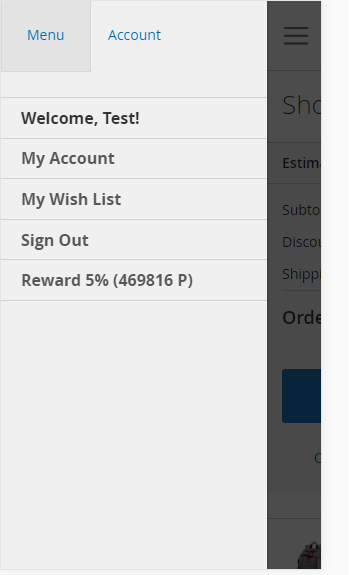
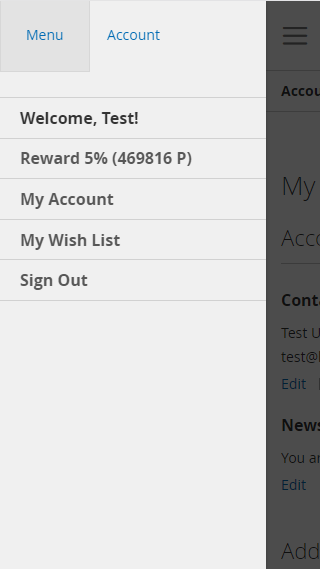
Changed: Update Readme to include screenshot Changed: point-reward-link in top.links moved to header.links Fixed: Remove duplicated wishlist script

Changed region(s): [[0.0, 0.0, 1.0, 1.0], [0.3125, 0.0299, 0.5, 0.0896], [0.0625, 0.0299, 0.1875, 0.0896]]

diff --git a/PointRewardPromotion/Block/AccountPointReward.php b/PointRewardPromotion/Block/AccountPointReward.php
@@ -15,14 +15,22 @@ class AccountPointReward extends \Magento\Framework\View\Element\Html\Link
     protected $_template = 'Magento_PointRewardPromotion::point_reward.phtml';
 
     /**
+     * @var \Magento\Framework\App\Http\Context
+     */
+    protected $httpContext;
+
+    /**
      * @param \Magento\Framework\View\Element\Template\Context $context
+     * @param \Magento\Framework\App\Http\Context $httpContext
      * @param array $data
      */
     public function __construct(
         \Magento\Framework\View\Element\Template\Context $context,
+        \Magento\Framework\App\Http\Context $httpContext,
         array $data = []
     ) {
         parent::__construct($context, $data);
+        $this->httpContext = $httpContext;
     }
 
     /**
@@ -39,5 +47,15 @@ class AccountPointReward extends \Magento\Framework\View\Element\Html\Link
     public function getLabel()
     {
         return __('Reward');
+    }
+
+    /**
+     * Checking customer login status
+     *
+     * @return bool
+     */
+    public function customerLoggedIn()
+    {
+        return (bool)$this->httpContext->getValue(\Magento\Customer\Model\Context::CONTEXT_AUTH);
     }
 }

diff --git a/Readme.md b/Readme.md
@@ -7,3 +7,17 @@ The module will add a new reward system, every products will have a point. A cus
 
 Clone the repo to `app/code/Magento`    
 Run `php bin/magento setup:upgrade` and `php bin/magento pointreward:init`
+
+# Screenshot
+
+1. Customer discount level and collected points        
+![customer total point](/screenshots/s0.png?raw=true)    
+
+2. Product reward attributes    
+![product reward attributes](/screenshots/s1.png?raw=true)    
+
+3. MiniCart layout     
+![minicart layout](/screenshots/s2.png?raw=true)    
+
+4. Summary layout (with 5% discount)    
+![summary layout](/screenshots/s3.png?raw=true)    
